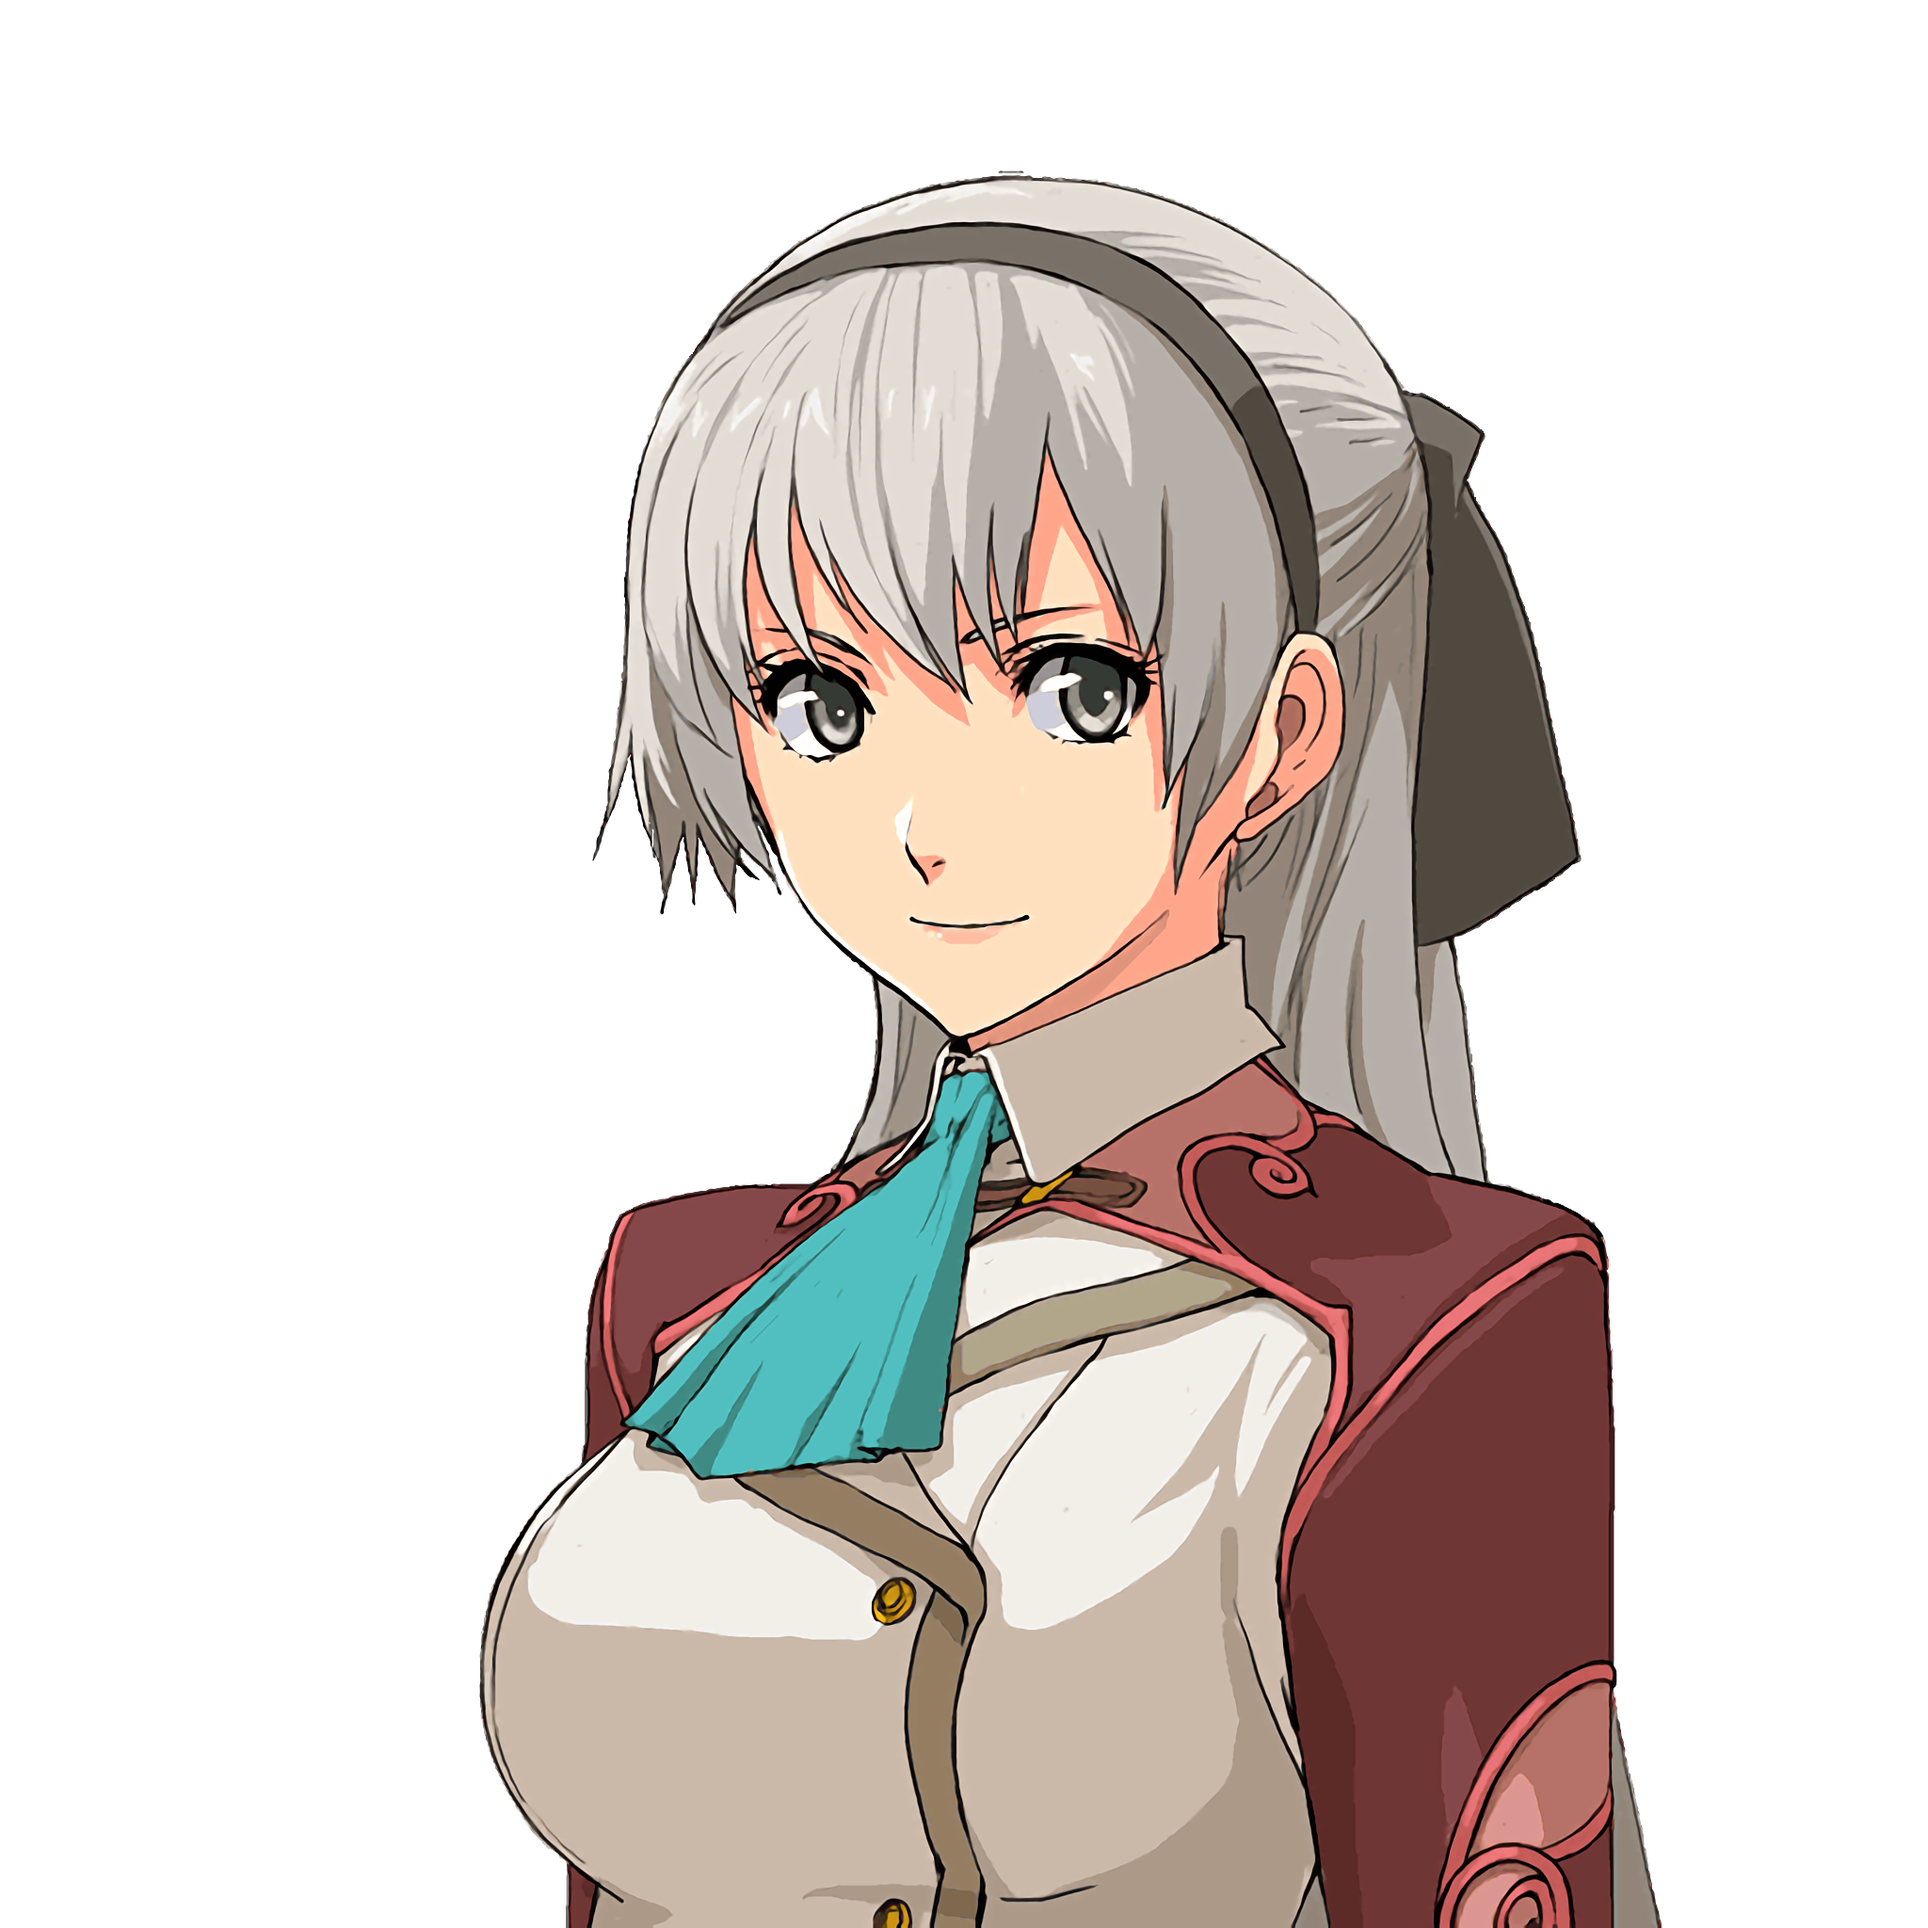
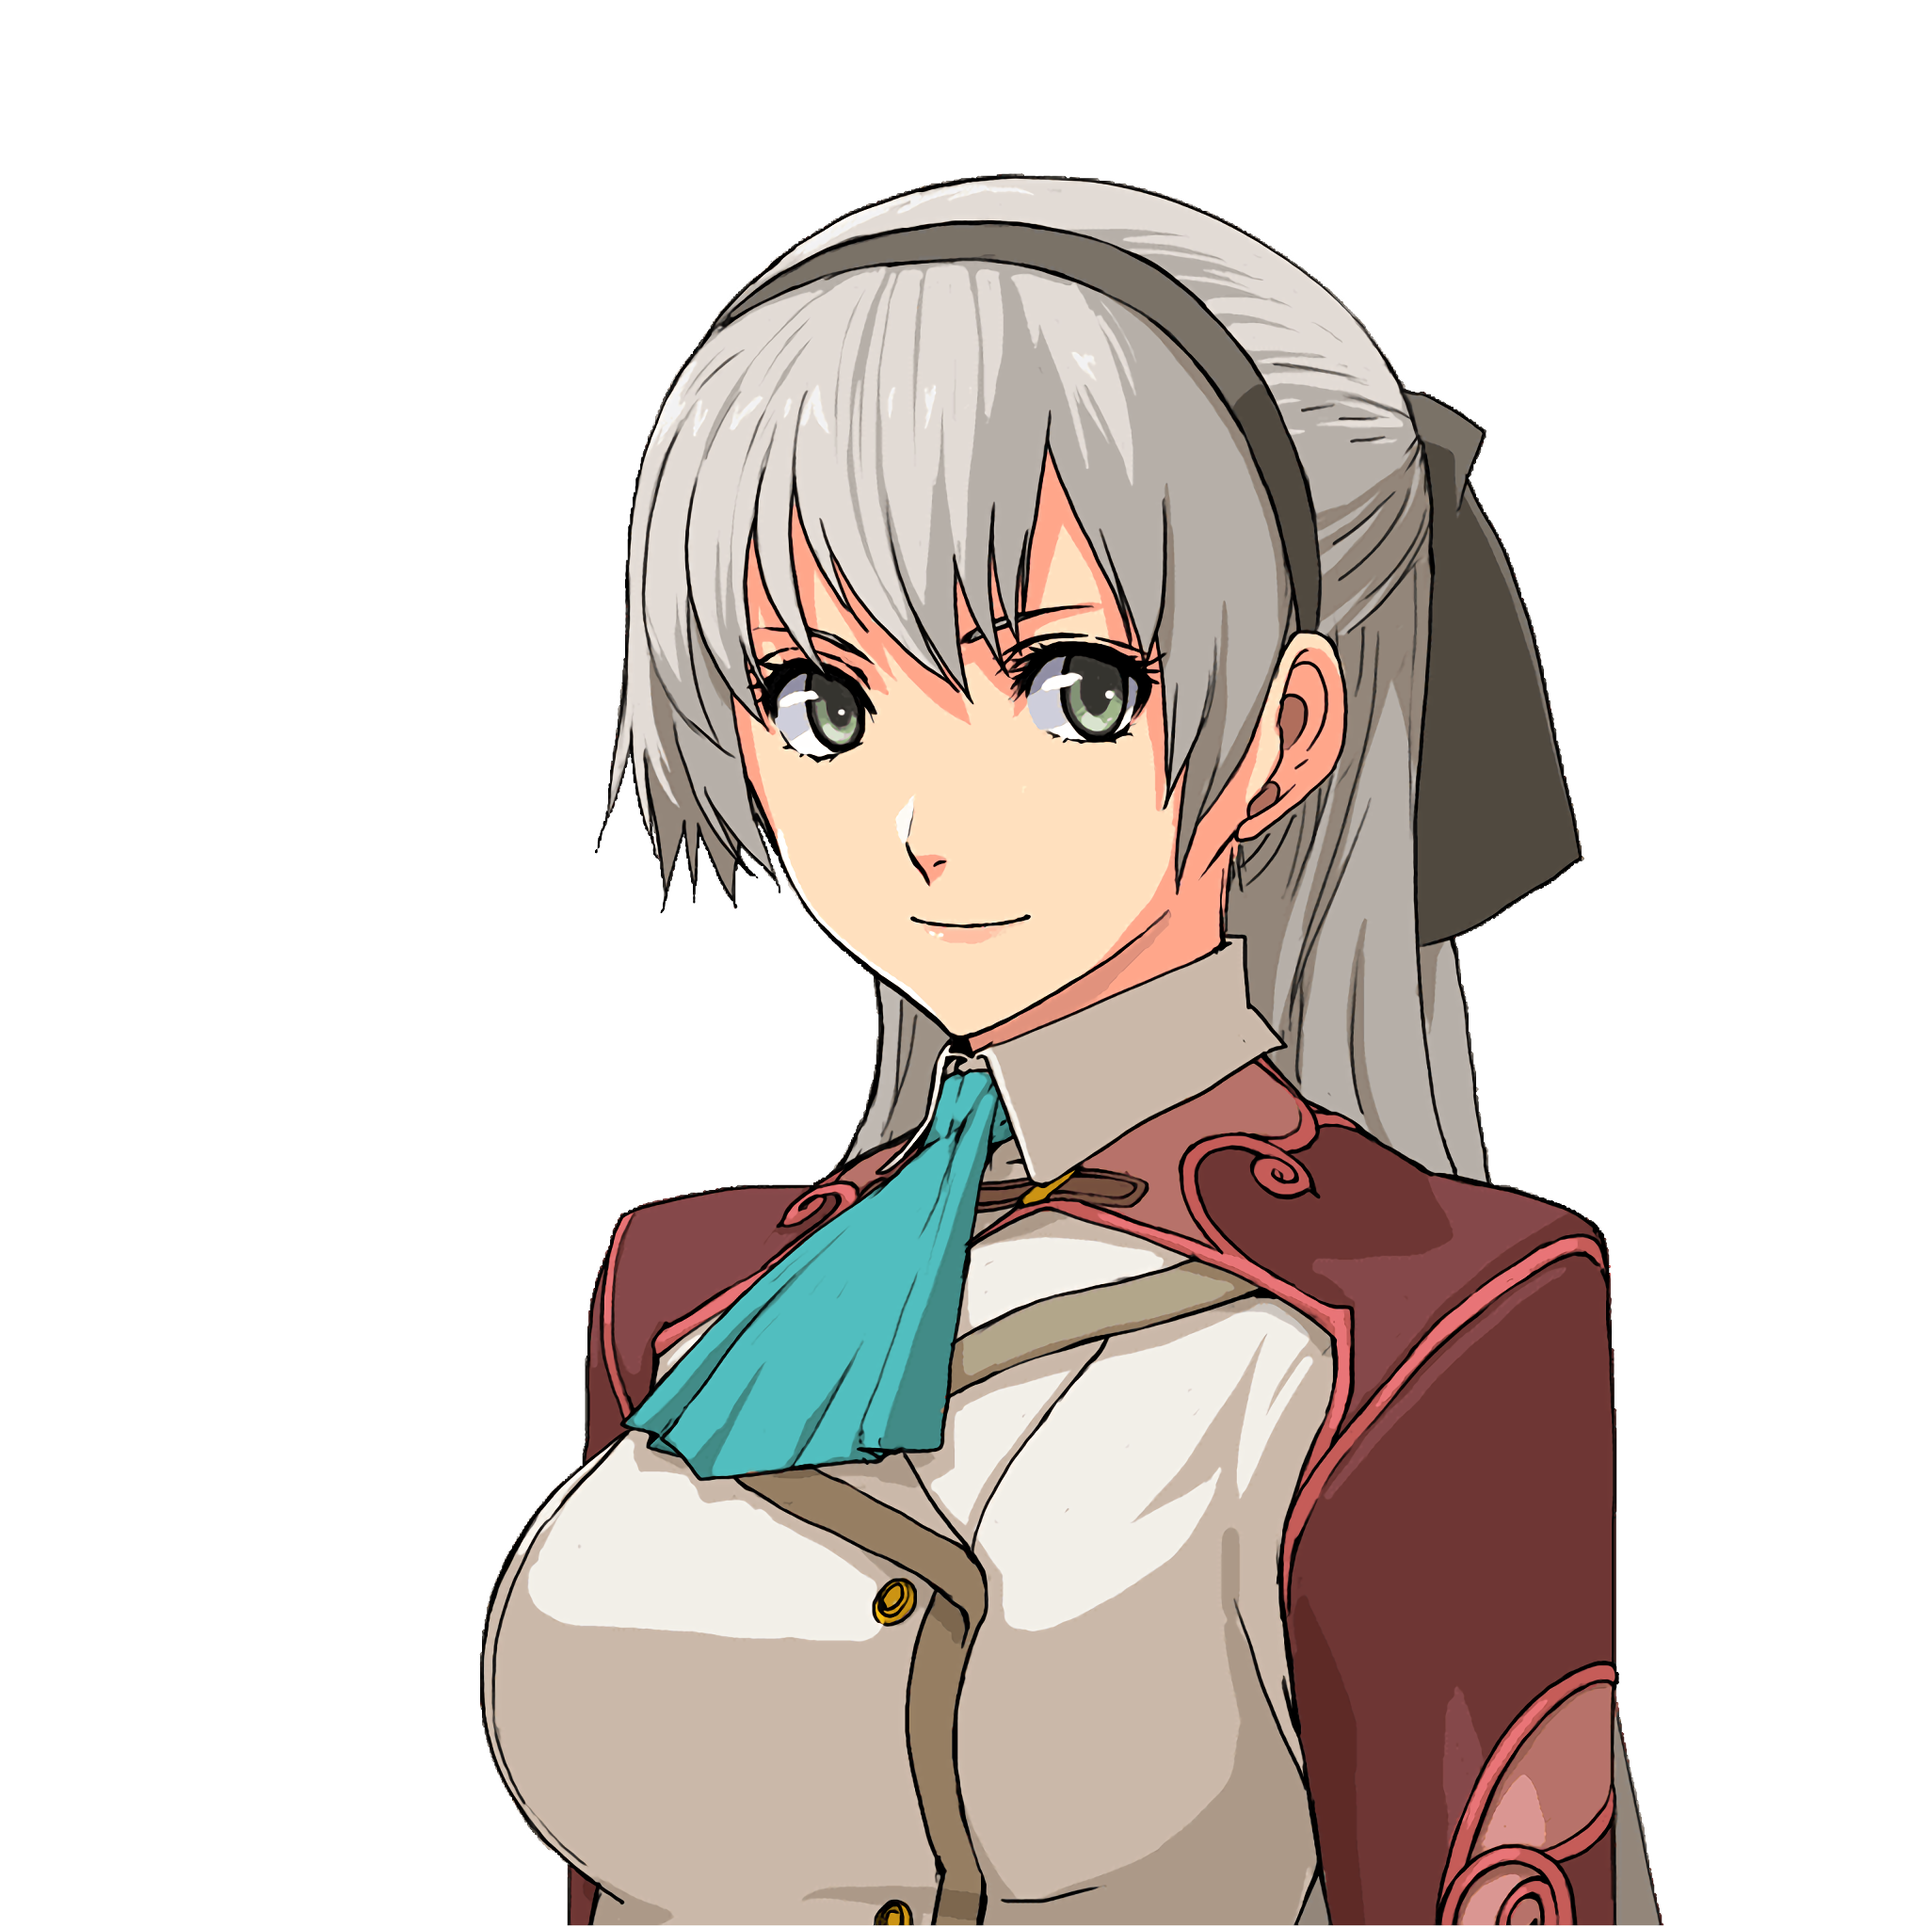
Updated portraits in \visual and fixed wrong eyes colour for Elie

diff --git a/README.md b/README.md
@@ -55,6 +55,10 @@ This treatment has also been reserved for Rushes and Conbi-Crafts.
 ![Pic6](doc/res/05.png)
 (*Again, don't mind the missing black bars in the original.*)
 
+![Pic7](doc/res/06.png)
+
+This one wasn't exactly necessary. They both share the same resolution (even though the Evolution one is cleaner), and in-game they wouldn't look that much different, specially without a side-by-side comparison. The reason for this one is that I'll be going to work on Ao no Kiseki as well, and unfortunately the PC version has these in Chinese. For consistency, I decided to grab the Evolution ones for Zero no Kiseki as well.
+
 I guess this is proof enough, as the most obvious issues have been fixed. I didn't showcase a few sets of portraits, but they mostly share their resolution with those I left here, so you can guess the final result.
 
 There's, however, a catch: the Geofront Patch has been made with the intent to have full support for both English and Japanese. What this implies is, while portraits are fine and independent from which language you choose, it's a different story when it comes to assets like the Notebook's files. The Geofront Patch comes with the English files, but it will support the Japanese ones as well. You'll get the latter from my project, so keep this in mind.
